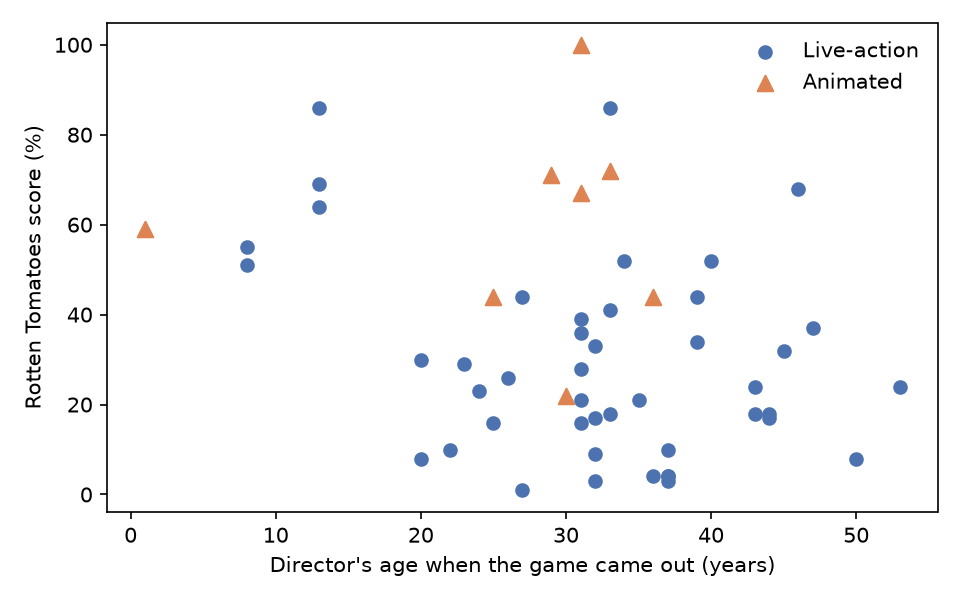
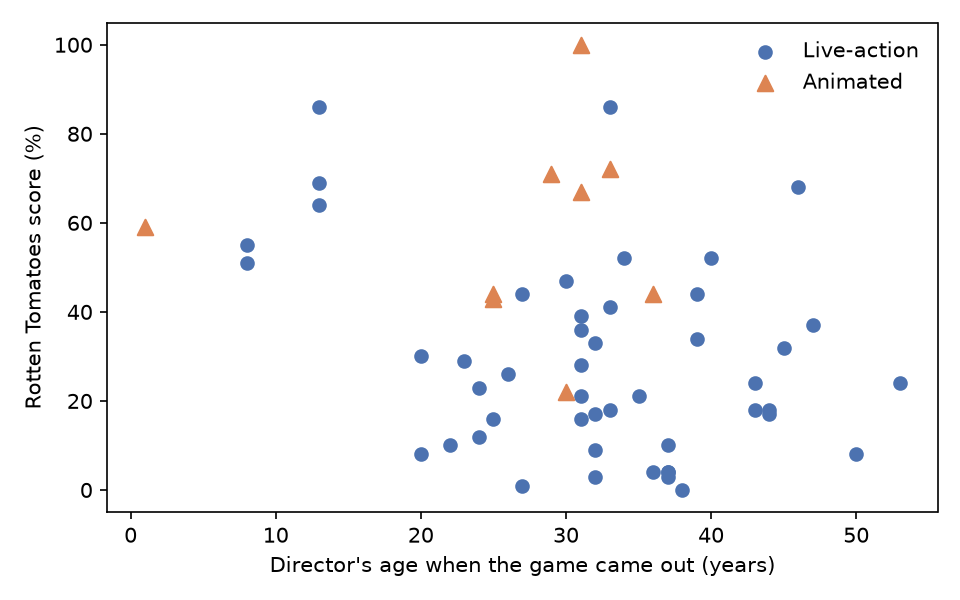
midterm-finishing: full missing-data pass (N 57); from econ-lecture-material 575a187

diff --git a/midterm-finishing/index.html b/midterm-finishing/index.html
@@ -1,7 +1,7 @@
 <!doctype html>
 <html lang="en">
 <head>
-<meta name="deck-build" content="public; speaker notes removed by strip_notes.py; out=5ed3d4f44e3084bb6e80be648555955a">
+<meta name="deck-build" content="public; speaker notes removed by strip_notes.py; out=709130683682a9ae0d4279937e93b384">
   <meta charset="utf-8">
   <meta name="viewport" content="width=device-width, initial-scale=1.0">
   <title>Finishing Your Midterm</title>
@@ -105,7 +105,7 @@ print(&quot;source:&quot;, SOURCE_URL)
 print(&quot;downloaded:&quot;, raw[&quot;retrieved&quot;].iloc[0])
 print(&quot;data/:&quot;, sorted(os.listdir(&quot;data&quot;)))</pre></div><div class="cell-out fragment"><pre style="font-size:11.5pt">source: https://en.wikipedia.org/wiki/List_of_films_based_on_video_games
 downloaded: 2026-11-03
-data/: [&#x27;cpi_fred.csv&#x27;, &#x27;directors_wikidata.csv&#x27;, &#x27;films_wikipedia.csv&#x27;, &#x27;games_wikipedia.csv&#x27;]</pre></div></div><div class="fragment fade-up " style="background: #f8f6f3; border-left: 4px solid var(--accent-color); padding: 12px 20px; border-radius: 6px; margin-top: 10px;"><p style="font-size: 12pt; color: var(--accent-color); text-transform: uppercase; letter-spacing: 2px;">Line 1, as you would post it</p><p style="font-size: 14.5pt; margin-top: 6px;">Wikipedia, “List of films based on video games” (live-action and animated tables; each score cites Rotten Tomatoes, each budget Box Office Mojo or The Numbers), downloaded 2026-11-03; directors’ birth dates from Wikidata; CPI-U (CPIAUCSL) from FRED. The download step is <code>get_data.py</code> in the repository.</p></div><p class="fragment fade-up" style="font-size: 14.5pt; margin-top: 12px;">A Wikipedia page changes every week: the date says which version. And each number on it cites its source, which is why it is usable at all.</p></div>
+data/: [&#x27;cpi_fred.csv&#x27;, &#x27;directors_wikidata.csv&#x27;, &#x27;films_wikipedia.csv&#x27;, &#x27;fx_usd_per_gbp_fred.csv&#x27;, &#x27;games_wikipedia.csv&#x27;, &#x27;rt_spot_check.csv&#x27;, &#x27;second_search.csv&#x27;]</pre></div></div><div class="fragment fade-up " style="background: #f8f6f3; border-left: 4px solid var(--accent-color); padding: 12px 20px; border-radius: 6px; margin-top: 10px;"><p style="font-size: 12pt; color: var(--accent-color); text-transform: uppercase; letter-spacing: 2px;">Line 1, as you would post it</p><p style="font-size: 14.5pt; margin-top: 6px;">Wikipedia, “List of films based on video games” (live-action and animated tables; each score cites Rotten Tomatoes, each budget Box Office Mojo or The Numbers), downloaded 2026-11-03; directors’ birth dates from Wikidata; CPI-U (CPIAUCSL) from FRED. The download step is <code>get_data.py</code> in the repository.</p></div><p class="fragment fade-up" style="font-size: 14.5pt; margin-top: 12px;">A Wikipedia page changes every week: the date says which version. And each number on it cites its source, which is why it is usable at all.</p></div>
 <p class="syn">Real data: Wikipedia’s list of films based on video games, Wikidata, FRED. Code and output: <code>midterm-example-movies.ipynb</code></p>
 </section>
 <section id="divider-2" class="section-divider" data-state="is-section-divider"><h1>Line 2 &middot; Its Shape</h1><p class="subtitle">Rows, columns, and what one row is &nbsp;&bull;&nbsp; 8 min</p></section>
@@ -132,7 +132,7 @@ print(films.loc[films[&quot;rt&quot;].isna(), &quot;rt_text&quot;].tolist())</pr
 17% (63 reviews)[12] 17.0     63.0
 [&#x27;N/A (2 reviews)[76]&#x27;, &#x27;N/A (1 review)[129]&#x27;, &#x27;N/A (1 review)[289]&#x27;, &#x27;N/A (8 reviews)[310]&#x27;]</pre></div></div><div class="cell" data-cell="m_l2_dollars"><div class="cell-code"><span class="cell-run"><i class="fa-solid fa-circle-play"></i></span><pre style="font-size:11.5pt">for text in [&quot;$42–48 million[2]&quot;, &quot;£2.3 million[285]&quot;]:
     print(f&quot;{text:20} -&gt; {to_dollars(text):,.0f}&quot;)</pre></div><div class="cell-out fragment"><pre style="font-size:11.5pt">$42–48 million[2]    -&gt; 45,000,000
-£2.3 million[285]    -&gt; nan</pre></div></div><div class="fragment fade-up key-result" style="margin-top: 8px;"><p style="font-size: 14pt;">Keep the <strong>review count</strong> beside the score: 100% from 5 reviews is not 100% from 200. The pound budget is set to missing rather than mixed in as dollars.</p></div>
+£2.3 million[285]    -&gt; nan</pre></div></div><div class="fragment fade-up key-result" style="margin-top: 8px;"><p style="font-size: 14pt;">Keep the <strong>review count</strong> beside the score: 100% from 5 reviews is not 100% from 200. The pound budget is not read as dollars; it is converted at the 2013 rate.</p></div>
 <p class="syn">Real data: Wikipedia’s list of films based on video games, Wikidata, FRED. Code and output: <code>midterm-example-movies.ipynb</code></p>
 </section>
 <section id="l2-real" style="padding: 26px 46px;">
@@ -157,11 +157,11 @@ print(df.duplicated([&quot;title&quot;, &quot;year&quot;]).sum())</pre></div><di
 <h2><i class="fa-solid fa-magnifying-glass" style="color: var(--secondary-color);"></i> Count First, Then Ask Where</h2>
 <div style="display: grid; grid-template-columns: 0.9fr 1.1fr; gap: 16px; margin-top: 8px;"><div class="cell" data-cell="m_l3_count"><div class="cell-code"><span class="cell-run"><i class="fa-solid fa-circle-play"></i></span><pre style="font-size:12pt">gaps = df[[&quot;rt&quot;, &quot;born&quot;, &quot;budget&quot;]].isna()
 print(gaps.sum().to_string())</pre></div><div class="cell-out fragment"><pre style="font-size:12pt">rt        4
-born      8
-budget    7</pre></div></div><div class="cell" data-cell="m_l3_where"><div class="cell-code"><span class="cell-run"><i class="fa-solid fa-circle-play"></i></span><pre style="font-size:12pt">print(gaps.groupby(df[&quot;format&quot;]).sum().to_string())</pre></div><div class="cell-out fragment"><pre style="font-size:12pt">             rt  born  budget
+born      3
+budget    6</pre></div></div><div class="cell" data-cell="m_l3_where"><div class="cell-code"><span class="cell-run"><i class="fa-solid fa-circle-play"></i></span><pre style="font-size:12pt">print(gaps.groupby(df[&quot;format&quot;]).sum().to_string())</pre></div><div class="cell-out fragment"><pre style="font-size:12pt">             rt  born  budget
 format                       
-animated      2     4       6
-live-action   2     4       1</pre></div></div></div><div class="fragment fade-up key-result" style="margin-top: 10px;"><p style="font-size: 14.5pt;">The count says how much. Grouping the gaps by format says whether they look random: the budgets clearly are not, <strong>6 of 7 are animated</strong>.</p></div>
+animated      2     3       5
+live-action   2     0       1</pre></div></div></div><div class="fragment fade-up key-result" style="margin-top: 10px;"><p style="font-size: 14.5pt;">The count says how much. Grouping the gaps by format says whether they look random: the budgets clearly are not, <strong>6 of 7 are animated</strong>.</p></div>
 <p class="syn">Real data: Wikipedia’s list of films based on video games, Wikidata, FRED. Code and output: <code>midterm-example-movies.ipynb</code></p>
 </section>
 <section id="l3-random" style="padding: 26px 46px;">
@@ -170,7 +170,7 @@ live-action   2     4       1</pre></div></div></div><div class="fragment fade-u
        Far Cry  N/A (2 reviews)[76]      1.1
   Dead Trigger  N/A (1 review)[129]      0.2
 Heavenly Sword  N/A (1 review)[289]      NaN
-     Scarygirl N/A (8 reviews)[310]      1.2</pre></div></div><div style="display: grid; grid-template-columns: repeat(3, 1fr); gap: 12px; margin-top: 12px;"><div class="fragment fade-up mech"><p class="m">MAR on reviews</p><p><strong>Score.</strong> None below Rotten Tomatoes’ review floor: it depends on the review count. MNAR in the score itself can’t be tested.</p></div><div class="fragment fade-up mech"><p class="m">MAR on format</p><p><strong>Director’s age.</strong> Five rated films, median score 43 vs 29: not random. Two are animated; the model holds format fixed.</p></div><div class="fragment fade-up mech"><p class="m">Rule</p><p><strong>2026 scores</strong> are not missing; they are not finished. A written rule drops them.</p></div></div>
+     Scarygirl N/A (8 reviews)[310]      1.2</pre></div></div><div style="display: grid; grid-template-columns: repeat(3, 1fr); gap: 12px; margin-top: 12px;"><div class="fragment fade-up mech"><p class="m">MAR on reviews</p><p><strong>Score.</strong> None below Rotten Tomatoes’ review floor: it depends on the review count. MNAR in the score itself can’t be tested.</p></div><div class="fragment fade-up mech"><p class="m">Search first</p><p><strong>Director’s age.</strong> 8 missing; a second search found 5. One rated film is left.</p></div><div class="fragment fade-up mech"><p class="m">Rule</p><p><strong>2026 scores</strong> are not missing; they are not finished. A written rule drops them.</p></div></div>
 <p class="syn">Real data: Wikipedia’s list of films based on video games, Wikidata, FRED. Code and output: <code>midterm-example-movies.ipynb</code></p>
 </section>
 <section id="l3-dropna" style="padding: 30px 50px;">
@@ -178,11 +178,11 @@ Heavenly Sword  N/A (1 review)[289]      NaN
 <div class="cell" data-cell="m_l3_dropna"><div class="cell-code"><span class="cell-run"><i class="fa-solid fa-circle-play"></i></span><pre style="font-size:12.5pt">print(len(df), &quot;-&gt;&quot;, len(sample))
 out = df.loc[~df.index.isin(sample.index)]
 print(out[&quot;format&quot;].value_counts().to_string())
-print((out[&quot;year&quot;] &gt; 2025).sum(), &quot;of them are 2026 releases&quot;)</pre></div><div class="cell-out fragment"><pre style="font-size:12.5pt">68 -&gt; 53
+print((out[&quot;year&quot;] &gt; 2025).sum(), &quot;of them are 2026 releases&quot;)</pre></div><div class="cell-out fragment"><pre style="font-size:12.5pt">68 -&gt; 57
 format
-live-action    10
-animated        5
-6 of them are 2026 releases</pre></div></div><div class="fragment fade-up " style="background: #f8f6f3; border-left: 4px solid var(--accent-color); padding: 12px 20px; border-radius: 6px; margin-top: 10px;"><p style="font-size: 12pt; color: var(--accent-color); text-transform: uppercase; letter-spacing: 2px;">Line 3, as you would post it</p><p style="font-size: 14.5pt; margin-top: 6px;">Missing: 4 scores (below the review floor: MAR given the review count, MNAR untestable), 8 directors’ birth dates (MAR given format), 7 budgets (6 of them animated), used only in Section 3. 2026 films are dropped by rule. The sample is 53 films; a missing budget does not drop a film.</p></div>
+live-action    7
+animated       4
+6 of them are 2026 releases</pre></div></div><div class="fragment fade-up " style="background: #f8f6f3; border-left: 4px solid var(--accent-color); padding: 12px 20px; border-radius: 6px; margin-top: 10px;"><p style="font-size: 12pt; color: var(--accent-color); text-transform: uppercase; letter-spacing: 2px;">Line 3, as you would post it</p><p style="font-size: 14.5pt; margin-top: 6px;">Missing: 4 scores (below the review floor: MAR given the review count, MNAR untestable), 8 directors’ birth dates, 5 found on a second search (data/second_search.csv), 7 budgets, used only in Section 3. 2026 films are dropped by rule. The sample is 57 films; a missing budget does not drop a film.</p></div>
 <p class="syn">Real data: Wikipedia’s list of films based on video games, Wikidata, FRED. Code and output: <code>midterm-example-movies.ipynb</code></p>
 </section>
 <section id="divider-4" class="section-divider" data-state="is-section-divider"><h1>Line 4 &middot; The One Join or Reshape</h1><p class="subtitle">Merging two files, wide to long, aggregating &mdash; or none &nbsp;&bull;&nbsp; 8 min</p></section>
@@ -219,7 +219,7 @@ print(df.shape)
 print(&quot;unmatched:&quot;, (~df[&quot;first_director&quot;].isin(directors[&quot;director&quot;])).sum(),
       &quot;| no birth date:&quot;, df[&quot;born&quot;].isna().sum())</pre></div><div class="cell-out fragment"><pre style="font-size:11.5pt">Rocky Morton
 (68, 27)
-unmatched: 6 | no birth date: 8</pre></div></div><div class="fragment fade-up " style="background: #f8f6f3; border-left: 4px solid var(--accent-color); padding: 12px 20px; border-radius: 6px; margin-top: 10px;"><p style="font-size: 12pt; color: var(--accent-color); text-transform: uppercase; letter-spacing: 2px;">Line 4, as you would post it</p><p style="font-size: 14.5pt; margin-top: 6px;">Merged 68 films to Wikidata birth dates on the first-listed director (co-directors were glued in the source table). 68 rows before, 68 after (a left merge, validated many-to-one), 6 unmatched, 2 more without a birth date. Then the game years on title + year (validated one-to-one): 66 of 68 matched. X = game year − birth year.</p></div>
+unmatched: 6 | no birth date: 3</pre></div></div><div class="fragment fade-up " style="background: #f8f6f3; border-left: 4px solid var(--accent-color); padding: 12px 20px; border-radius: 6px; margin-top: 10px;"><p style="font-size: 12pt; color: var(--accent-color); text-transform: uppercase; letter-spacing: 2px;">Line 4, as you would post it</p><p style="font-size: 14.5pt; margin-top: 6px;">Merged 68 films to Wikidata birth dates on the first-listed director (co-directors were glued in the source table). 68 rows before, 68 after (a left merge, validated many-to-one), 6 unmatched, 2 more without a birth date. Then the game years on title + year (validated one-to-one): 67 of 68 matched. X = game year − birth year.</p></div>
 <p class="syn">Real data: Wikipedia’s list of films based on video games, Wikidata, FRED. Code and output: <code>midterm-example-movies.ipynb</code></p>
 </section>
 <section id="divider-5" class="section-divider" data-state="is-section-divider"><h1>What Each Rubric Row Is Looking For</h1><p class="subtitle">Six rows, 100 points, on the same example &nbsp;&bull;&nbsp; 15 min</p></section>
@@ -233,12 +233,12 @@ unmatched: 6 | no birth date: 8</pre></div></div><div class="fragment fade-up " 
 
 <div style="display: grid; grid-template-columns: 1.05fr 0.95fr; gap: 16px; margin-top: 8px;">
 <div>
-<table class="sumtab" style="font-size: 11.5pt;"><thead><tr><th>Variable (unit)</th><th>Mean</th><th>Median</th><th>Min</th><th>Max</th><th>N</th></tr></thead><tbody><tr><td>Rotten Tomatoes score (% positive reviews)</td><td>34.2</td><td>29.0</td><td>1.0</td><td>100.0</td><td>53</td></tr><tr><td>Reviews counted</td><td>134.3</td><td>120.0</td><td>5.0</td><td>327.0</td><td>53</td></tr><tr><td>Director&#x27;s age when the game came out (years)</td><td>31.2</td><td>32.0</td><td>1.0</td><td>53.0</td><td>53</td></tr><tr><td>Director&#x27;s age at release (years)</td><td>45.0</td><td>44.0</td><td>30.0</td><td>68.0</td><td>53</td></tr><tr><td>Release year</td><td>2011.8</td><td>2012</td><td>1993</td><td>2025</td><td>53</td></tr><tr><td>Budget ($m, 2024)</td><td>86.5</td><td>74.4</td><td>7.5</td><td>251.7</td><td>50</td></tr></tbody></table>
-<p style="font-size: 12pt; color: var(--muted-color); margin-top: 6px;">53 films, 1993–2025, after the sample rule; budgets only where reported in dollars.</p>
-<p class="fragment fade-up" style="font-size: 13pt; margin-top: 8px;">Median beside mean for a skewed outcome: the typical film scores <strong>29%</strong>, below the mean of 34.2%. N per row, since budgets are missing for some.</p>
+<table class="sumtab" style="font-size: 11.5pt;"><thead><tr><th>Variable (unit)</th><th>Mean</th><th>Median</th><th>Min</th><th>Max</th><th>N</th></tr></thead><tbody><tr><td>Rotten Tomatoes score (% positive reviews)</td><td>33.6</td><td>29.0</td><td>0.0</td><td>100.0</td><td>57</td></tr><tr><td>Reviews counted</td><td>128.8</td><td>120.0</td><td>5.0</td><td>327.0</td><td>57</td></tr><tr><td>Director&#x27;s age when the game came out (years)</td><td>31.1</td><td>32.0</td><td>1.0</td><td>53.0</td><td>57</td></tr><tr><td>Director&#x27;s age at release (years)</td><td>44.9</td><td>44.0</td><td>30.0</td><td>68.0</td><td>57</td></tr><tr><td>Release year</td><td>2011.8</td><td>2012</td><td>1993</td><td>2025</td><td>57</td></tr><tr><td>Budget ($m, 2024)</td><td>85.5</td><td>74.1</td><td>7.5</td><td>251.7</td><td>53</td></tr></tbody></table>
+<p style="font-size: 12pt; color: var(--muted-color); margin-top: 6px;">57 films, 1993–2025, after the sample rule; budgets only where reported in dollars.</p>
+<p class="fragment fade-up" style="font-size: 13pt; margin-top: 8px;">Median beside mean for a skewed outcome: the typical film scores <strong>29%</strong>, below the mean of 33.6%. N per row, since budgets are missing for some.</p>
 </div>
 <div>
-<img alt="Scatter of Rotten Tomatoes score against the director's age when the game came out, 53 films based on video games: the cloud tilts down" src="figures/movies_age_rt.png" style="width: 100%; max-height: 300px; object-fit: contain; border: 1px solid #eee;"/>
+<img alt="Scatter of Rotten Tomatoes score against the director's age when the game came out, 57 films based on video games: the cloud tilts down" src="figures/movies_age_rt.png" style="width: 100%; max-height: 300px; object-fit: contain; border: 1px solid #eee;"/>
 <p class="fragment fade-up cap bad">× “Age when the game came out and Rotten Tomatoes score.”</p>
 <p class="fragment fade-up cap good">✓ “Directors who were younger when the game came out made better-reviewed films, before any controls.”</p>
 </div>
@@ -250,13 +250,13 @@ unmatched: 6 | no birth date: 8</pre></div></div><div class="fragment fade-up " 
 
 <div style="display: grid; grid-template-columns: 0.9fr 1.1fr; gap: 18px; margin-top: 8px;">
 <div>
-<table class="regtab"><thead><tr><th></th><th>(1) Age only</th><th>(2) Main</th></tr></thead><tbody><tr><td>Age when the game came out</td><td>-0.71<br/><span>(0.23)</span></td><td>-0.29<br/><span>(0.26)</span></td></tr><tr><td>Release year</td><td></td><td>1.07<br/><span>(0.34)</span></td></tr><tr><td>Animated (0/1)</td><td></td><td>25.18<br/><span>(9.27)</span></td></tr><tr><td>Constant</td><td>56.37<br/><span>(7.91)</span></td><td>-2119.11<br/><span>(688.86)</span></td></tr><tr class="foot"><td>N</td><td>53</td><td>53</td></tr><tr class="foot"><td>R²</td><td>0.10</td><td>0.39</td></tr></tbody></table>
+<table class="regtab"><thead><tr><th></th><th>(1) Age only</th><th>(2) Main</th></tr></thead><tbody><tr><td>Age when the game came out</td><td>-0.72<br/><span>(0.23)</span></td><td>-0.30<br/><span>(0.25)</span></td></tr><tr><td>Release year</td><td></td><td>1.08<br/><span>(0.30)</span></td></tr><tr><td>Animated (0/1)</td><td></td><td>23.36<br/><span>(8.67)</span></td></tr><tr><td>Constant</td><td>55.91<br/><span>(7.80)</span></td><td>-2138.94<br/><span>(603.99)</span></td></tr><tr class="foot"><td>N</td><td>57</td><td>57</td></tr><tr class="foot"><td>R²</td><td>0.10</td><td>0.40</td></tr></tbody></table>
 <p style="font-size: 11pt; color: var(--muted-color); margin-top: 4px;">OLS of the Rotten Tomatoes score (% positive reviews); robust (HC1) standard errors in parentheses.</p>
 </div>
 <div>
-<p class="fragment fade-up interp">“Holding year and format fixed, a director <strong>ten years younger when the game came out</strong> goes with a score <strong>2.9 points higher</strong> (95% CI -2.3 to +8.0): the predicted sign, but the data do not decide.”</p>
-<p class="fragment fade-up interp">“A film released <strong>one year later</strong> scores <strong>1.07 points higher</strong>, holding age and format fixed, and this interval excludes zero.”</p>
-<p class="fragment fade-up interp role">Release year is the confounder: age alone is <strong>-0.71</strong> (CI excludes 0); recent films adapt games their directors met younger (34.5 → 26.8). Holding year fixed: <strong>-0.29</strong>, CI includes 0.</p>
+<p class="fragment fade-up interp">“Holding year and format fixed, a director <strong>ten years younger when the game came out</strong> goes with a score <strong>3.0 points higher</strong> (95% CI -1.9 to +7.9): the predicted sign, but the data do not decide.”</p>
+<p class="fragment fade-up interp">“A film released <strong>one year later</strong> scores <strong>1.08 points higher</strong>, holding age and format fixed, and this interval excludes zero.”</p>
+<p class="fragment fade-up interp role">Release year is the confounder: age alone is <strong>-0.72</strong> (CI excludes 0); recent films adapt games their directors met younger (34.3 → 26.9). Holding year fixed: <strong>-0.30</strong>, CI includes 0.</p>
 </div>
 </div>
 <p class="syn">Real data: Wikipedia’s list of films based on video games, Wikidata, FRED. Code and output: <code>midterm-example-movies.ipynb</code></p>
@@ -267,7 +267,7 @@ unmatched: 6 | no birth date: 8</pre></div></div><div class="fragment fade-up " 
 <div style="width: 100%; max-width: 860px; margin: 4px auto 0;"><svg viewBox="0 0 900 340" xmlns="http://www.w3.org/2000/svg" style="width:100%; display:block;" role="img" aria-label="Causal graph: release year and format point into age and the critics score; age to budget to score; franchise, unmeasured, points into age and score"><defs><marker id="dk" viewBox="0 0 10 10" refX="9" refY="5" markerWidth="7" markerHeight="7" orient="auto"><path d="M0 0L10 5L0 10z" fill="#2c3e50"/></marker><marker id="gr" viewBox="0 0 10 10" refX="9" refY="5" markerWidth="7" markerHeight="7" orient="auto"><path d="M0 0L10 5L0 10z" fill="#2E7D32"/></marker><marker id="or" viewBox="0 0 10 10" refX="9" refY="5" markerWidth="7" markerHeight="7" orient="auto"><path d="M0 0L10 5L0 10z" fill="#C26A00"/></marker><marker id="rd" viewBox="0 0 10 10" refX="9" refY="5" markerWidth="7" markerHeight="7" orient="auto"><path d="M0 0L10 5L0 10z" fill="#B3261E"/></marker></defs><line x1="426" y1="177" x2="684" y2="177" stroke="#2c3e50" stroke-width="3.4" marker-end="url(#dk)"/><g class="fragment" data-fragment-index="1"><line x1="172" y1="80" x2="288" y2="149" stroke="#2E7D32" stroke-width="2.6" marker-end="url(#gr)"/><line x1="216" y1="70" x2="684" y2="160" stroke="#2E7D32" stroke-width="2.6" marker-end="url(#gr)"/><line x1="172" y1="274" x2="288" y2="205" stroke="#2E7D32" stroke-width="2.6" marker-end="url(#gr)"/><line x1="216" y1="284" x2="684" y2="194" stroke="#2E7D32" stroke-width="2.6" marker-end="url(#gr)"/></g><g class="fragment" data-fragment-index="2"><line x1="387" y1="149" x2="513" y2="80" stroke="#C26A00" stroke-width="2.6" marker-end="url(#or)"/><line x1="612" y1="80" x2="728" y2="149" stroke="#C26A00" stroke-width="2.6" marker-end="url(#or)"/></g><g class="fragment" data-fragment-index="3"><line x1="513" y1="274" x2="387" y2="205" stroke="#B3261E" stroke-width="2.6" stroke-dasharray="7 5" marker-end="url(#rd)"/><line x1="612" y1="274" x2="728" y2="205" stroke="#B3261E" stroke-width="2.6" stroke-dasharray="7 5" marker-end="url(#rd)"/></g><rect x="40" y="30" width="170" height="44" rx="10" fill="#fff" stroke="#2E7D32" stroke-width="2.6"/><text x="125.0" y="59" text-anchor="middle" font-size="19" font-weight="700" fill="#2E7D32">Release year</text><rect x="40" y="280" width="170" height="44" rx="10" fill="#fff" stroke="#2E7D32" stroke-width="2.6"/><text x="125.0" y="309" text-anchor="middle" font-size="19" font-weight="700" fill="#2E7D32">Animated</text><rect x="250" y="155" width="170" height="44" rx="10" fill="#fff" stroke="#2c3e50" stroke-width="2.6"/><text x="335.0" y="174" text-anchor="middle" font-size="15.5" font-weight="700" fill="#2c3e50">Age when the</text><text x="335.0" y="192" text-anchor="middle" font-size="15.5" font-weight="700" fill="#2c3e50">game came out</text><rect x="690" y="155" width="170" height="44" rx="10" fill="#fff" stroke="#2c3e50" stroke-width="2.6"/><text x="775.0" y="184" text-anchor="middle" font-size="19" font-weight="700" fill="#2c3e50">Critics’ score</text><g><rect x="480" y="30" width="170" height="44" rx="10" fill="#fff" stroke="#C26A00" stroke-width="2.6"/><text x="565.0" y="59" text-anchor="middle" font-size="19" font-weight="700" fill="#C26A00">Budget</text></g><rect x="480" y="280" width="170" height="44" rx="10" fill="#fff" stroke="#B3261E" stroke-width="2.6" stroke-dasharray="7 5"/><text x="565.0" y="309" text-anchor="middle" font-size="19" font-weight="700" fill="#B3261E">Franchise / sequel</text></svg></div>
 <div style="display: grid; grid-template-columns: repeat(3, 1fr); gap: 14px; margin-top: 8px;">
 <p class="fragment fade-up" data-fragment-index="1" style="font-size: 13pt; border-left: 5px solid #2E7D32; padding-left: 10px;"><strong style="color:#2E7D32">Confounders.</strong> Year and format point into both age and the score. Control for them: each blocks a backdoor path.</p>
-<p class="fragment fade-up" data-fragment-index="2" style="font-size: 13pt; border-left: 5px solid #C26A00; padding-left: 10px;"><strong style="color:#C26A00">Possible mediator.</strong> Director → budget → score. Leave it out; in these data it is not a mediator (-0.34 → -0.33).</p>
+<p class="fragment fade-up" data-fragment-index="2" style="font-size: 13pt; border-left: 5px solid #C26A00; padding-left: 10px;"><strong style="color:#C26A00">Possible mediator.</strong> Director → budget → score. Leave it out; in these data it is not a mediator (-0.36 → -0.37).</p>
 <p class="fragment fade-up" data-fragment-index="3" style="font-size: 13pt; border-left: 5px dashed #B3261E; padding-left: 10px;"><strong style="color:#B3261E">Not measured.</strong> Franchise and sequel point into both, and there is no variable for them. That open path is Section 5’s threat.</p>
 </div>
 <p style="font-size: 12pt; color: var(--muted-color); margin-top: 6px;">Not required by the brief. It is the quickest way to write Section 3’s “role of every control” (Topic 10).</p>
@@ -279,9 +279,9 @@ unmatched: 6 | no birth date: 8</pre></div></div><div class="fragment fade-up " 
 <p style="font-size: 14pt; color: var(--muted-color);">Model (2), same data; every number is printed by the example notebook’s Section 4 cells.</p>
 <div class="diag-list">
 <div class="fragment fade-up diag"><p class="t">Residuals</p><p>Against fitted values and against age: no curve, no fan; a wide spread throughout.</p></div>
-<div class="fragment fade-up diag"><p class="t">Constant variance</p><p>Breusch–Pagan p = 0.28: no evidence, but little power with 53 films. Robust (HC1) errors reported.</p></div>
-<div class="fragment fade-up diag"><p class="t">VIF</p><p>All about 1.14: age, year and format barely overlap, so no standard error is inflated.</p></div>
-<div class="fragment fade-up diag"><p class="t">Influence + planned checks</p><p>Top Cook’s D: Resident Evil: Damnation (100% from 5 reviews). Under-20-review films out: -0.34. Median regression: +0.21. Split X: age at release -0.21, game’s age +0.37.</p></div>
+<div class="fragment fade-up diag"><p class="t">Constant variance</p><p>Breusch–Pagan p = 0.33: no evidence, but little power with 57 films. Robust (HC1) errors reported.</p></div>
+<div class="fragment fade-up diag"><p class="t">VIF</p><p>All about 1.12: age, year and format barely overlap, so no standard error is inflated.</p></div>
+<div class="fragment fade-up diag"><p class="t">Influence + planned checks</p><p>Top Cook’s D: Resident Evil: Damnation (100% from 5 reviews). Under-20-review films out: -0.34. Median regression: -0.22. Split X: age at release -0.28, game’s age +0.33.</p></div>
 </div>
 <p class="syn">Real data: Wikipedia’s list of films based on video games, Wikidata, FRED. Code and output: <code>midterm-example-movies.ipynb</code></p>
 </section>
@@ -305,7 +305,7 @@ unmatched: 6 | no birth date: 8</pre></div></div><div class="fragment fade-up " 
   Data         Wikipedia + Wikidata + FRED,
                URLs, downloaded 2026-11-03
   How to run   run the notebook top to bottom
-  Finding      +2.9 pts per 10 yrs younger at the game, CI spans 0</pre>
+  Finding      +3.0 pts per 10 yrs younger at the game, CI spans 0</pre>
 </div>
 <p style="font-size: 13.5pt; margin-top: 10px;">Conclusion: half a page, how confident a reader should be, what you would do with another month. No new results.</p>
 </div>
